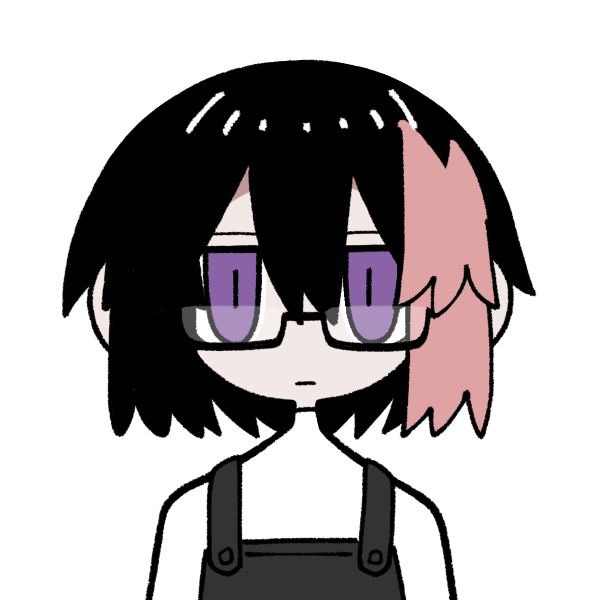
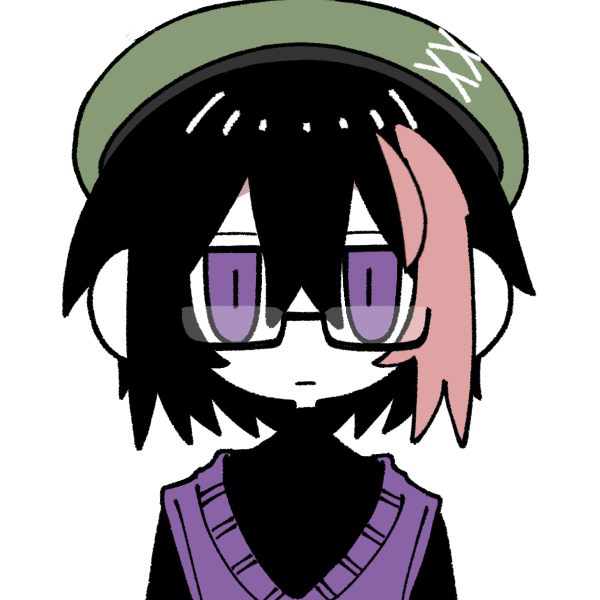
new characters

Changed region(s): [[0.12, 0.0, 0.9, 1.0]]

diff --git a/src/types/character.ts b/src/types/character.ts
@@ -11,6 +11,8 @@ export const Character = {
   KUROSACHI: { id: "KUROSACHI", displayName: "Kurosachi", portrait: "portraits/kurosachi.png" },
   PRISCI: { id: "PRISCI", displayName: "Prisci", portrait: "portraits/prisci.png" },
   TOKI: { id: "TOKI", displayName: "Toki", portrait: "portraits/toki.png" },
+  AYAKA: { id: "AYAKA", displayName: "Ayaka", portrait: "portraits/ayaka.png" },
+  SAYOKO: { id: "SAYOKO", displayName: "Sayoko", portrait: "portraits/sayoko.png" },
 } as const satisfies Record<string, CharacterDef>;
 
 export type CharacterId = keyof typeof Character;
